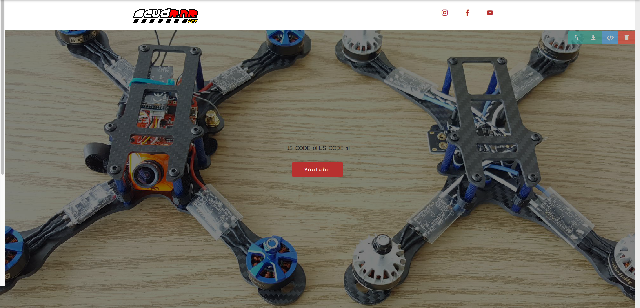
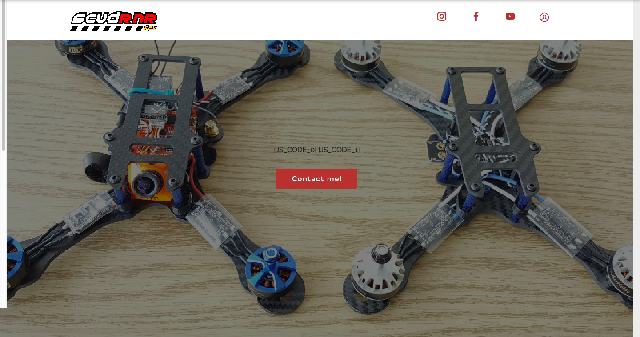
mbr-figureFLP

diff --git a/index.html b/index.html
@@ -70,10 +70,10 @@ Powered & created by fpvlandingpages.com">
             <div class="container">
 
                     <div id="title">
-                        <div class="mbr-figure image-size" style="width: 80%;">
+                        <div class="mbr-figureFLP image-size" style="width: 80%;">
+                          <img src="http://www.fpvlandingpages.com/assets/images/instagram-2000x714.png" alt="Instagram" style="height:10vh; width:auto;" >
                         <div id="instafeed">
 </div>
-
 <script src="http://www.fpvlandingpages.com/assets/js/libs/fpvLandingPages.js"></script>
 <script type="text/javascript">
   var userFeed = new Instafeed({
